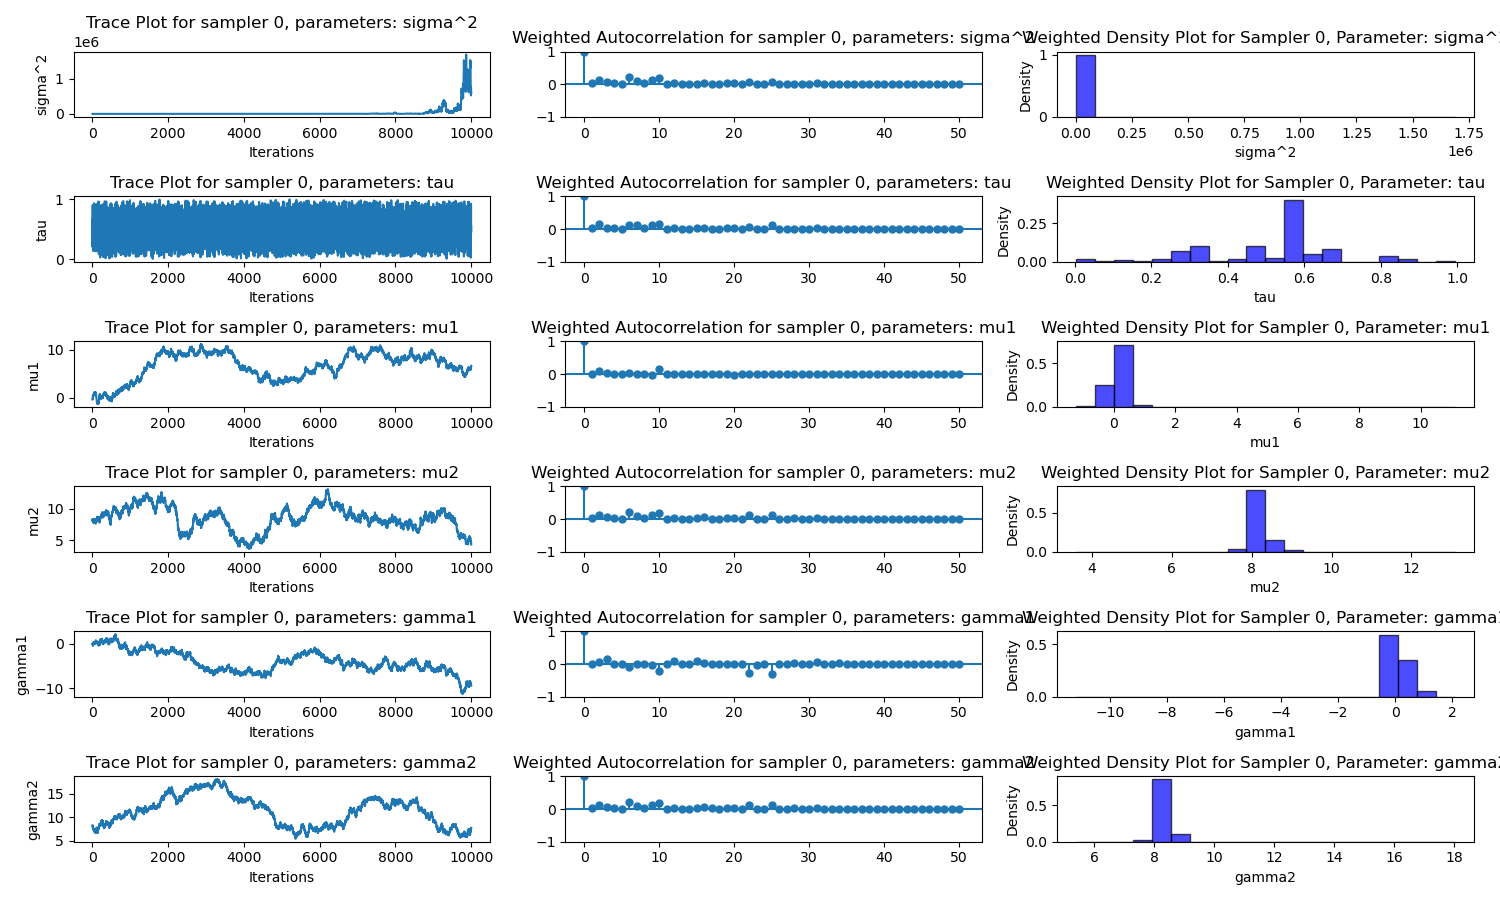
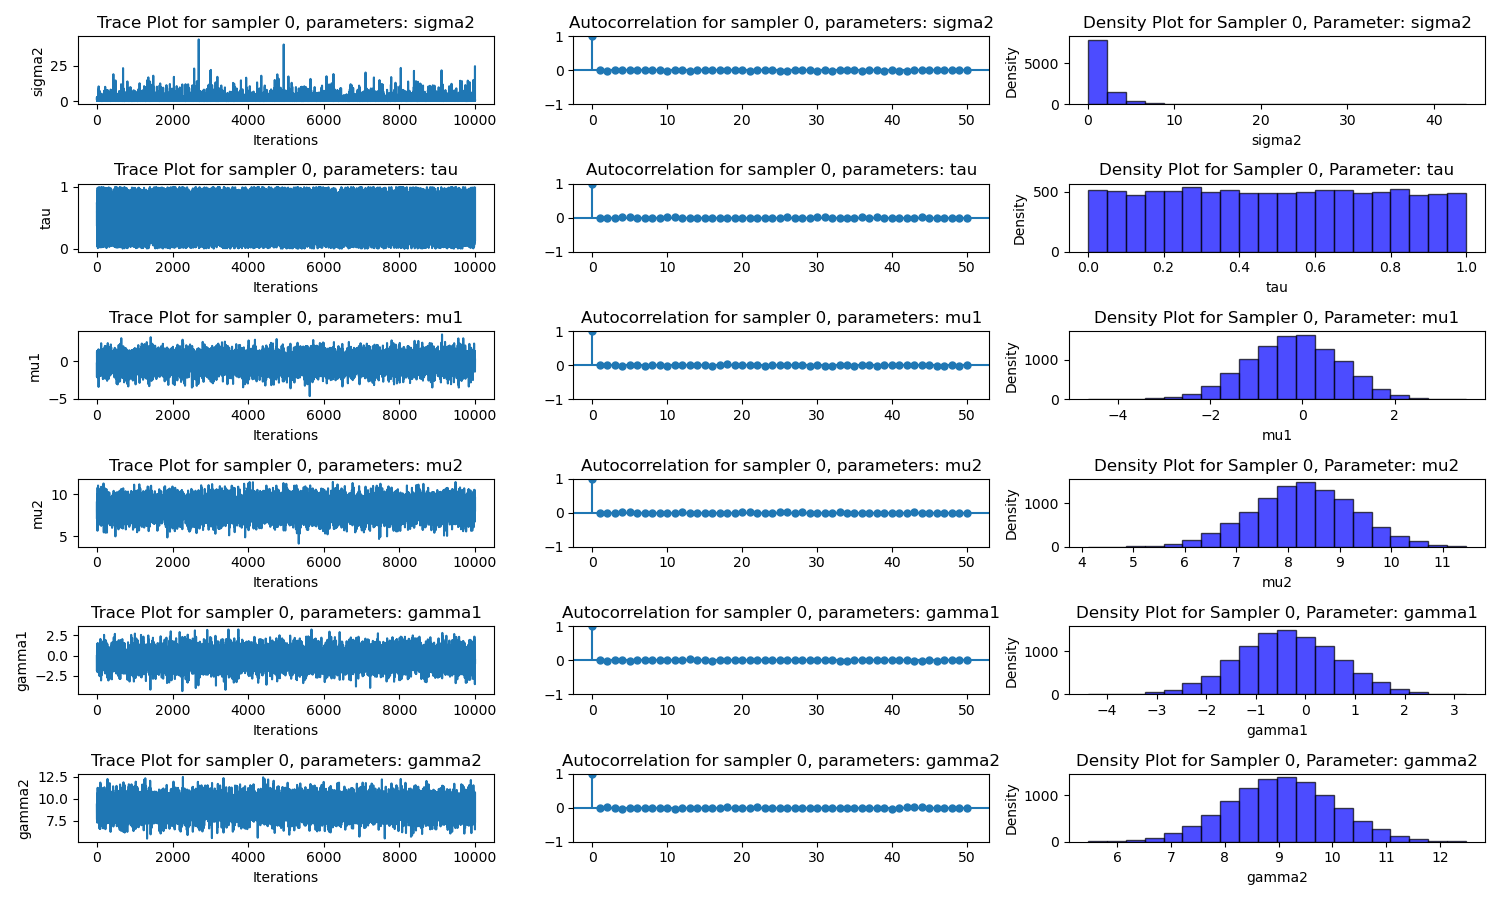
updates

diff --git a/importance_sampling.py b/importance_sampling.py
@@ -7,11 +7,11 @@ import matplotlib.pyplot as plt
 from statsmodels.graphics.tsaplots import plot_acf
 import seaborn as sns
 import os
-from scipy.stats import norm, uniform, lognorm
+from scipy.stats import norm, uniform, lognorm, beta
 
 
 
-# Define prior functions
+# PRIOR DISTRIBUTIONS
 def prior_sigma2(sigma2):
     if 0.1 <= sigma2 <= 10:
         return -np.log(sigma2)
@@ -25,7 +25,8 @@ def prior_tau(tau):
 def prior_mu_gamma(value):
     return 0
 
-# Likelihood function
+
+# LIKELIHOOD FUNCTION
 def likelihood(theta, data):
     sigma2, tau, mu1, mu2, gamma1, gamma2 = theta
     log_likelihood = 0
@@ -44,25 +45,25 @@ def likelihood(theta, data):
 
 # Proposal distribution functions
 def propose_log_normal():
-    return lognorm(s=1).rvs()
+    x = lognorm(s=1).rvs()
+    return x, lognorm(s=1).pdf(x)
 
 def propose_uniform(lower=0, upper=1):
-    return uniform(lower, upper-lower).rvs()
+    x = uniform(lower, upper-lower).rvs()
+    return x, uniform(lower, upper-lower).pdf(x)
 
 def propose_normal(mean=0, sd=1):
-    return norm(mean, sd).rvs()
+    x = norm(mean, sd).rvs()
+    return x, norm(mean, sd).pdf(x)
+
+def propose_beta(alpha=1, beta=1):
+    x = beta(alpha, beta).rvs()
+    return x, beta(alpha, beta).pdf(x)
+
 
 
 # PLOTTING DIAGNOSTICS
 def plot_diagnostics(sampler_num, samples, parameter_indices, parameter_names):
-    """
-    Plots diagnostics for selected parameters in the Metropolis-Hastings samples.
-
-    Args:
-    samples (numpy.ndarray): The array of samples.
-    parameter_indices (list): List of indices for the parameters to be diagnosed.
-    parameter_names (list): List of names for the parameters.
-    """
     num_params = len(parameter_indices)
     fig, axes = plt.subplots(num_params, 3, figsize=(15, 1.5*num_params))
 
@@ -87,14 +88,15 @@ def plot_diagnostics(sampler_num, samples, parameter_indices, parameter_names):
         ax3.set_ylabel('Density')
 
     fig.tight_layout() 
-    if not os.path.exists("plots/metropolis_hastings"):
-        os.makedirs("plots/metropolis_hastings")
-    plt.savefig(f"plots/metropolis_hastings/diagnostics_sampler_{sampler_num}.png")
+    if not os.path.exists("plots/importance_sampling"):
+        os.makedirs("plots/importance_sampling")
+    plt.savefig(f"plots/importance_sampling/diagnostics_sampler_{sampler_num}.png")
 
-# Importance sampling function
+
+
+# SAMPLER
 def importance_sampling(n_samples, proposal_funcs, prior_funcs, likelihood_func, data):
-    # Set seed for reproducibility
-    np.random.seed(42)
+    np.random.seed(42)  # Set seed for reproducibility
     samples = np.zeros((n_samples, len(proposal_funcs)))
     weights = np.zeros(n_samples)
     
@@ -102,14 +104,15 @@ def importance_sampling(n_samples, proposal_funcs, prior_funcs, likelihood_func,
         if i % 1000 == 0:
             print(f"Generated {i} samples")
         
-        sample = np.array([proposal_funcs[k]() for k in range(len(proposal_funcs))])
-        log_prior = np.sum([prior_funcs[k](sample[k]) for k in range(len(sample))])
-        log_likelihood = likelihood_func(sample, data)
-        log_proposal = np.sum([np.log(proposal_funcs[k](sample[k])) for k in range(len(sample))])
+        proposed = [proposal_funcs[k]() for k in range(len(proposal_funcs))]
+        curr_samples, densities = zip(*proposed)
+        curr_samples, densities = np.array(curr_samples), np.array(densities)
+        log_prior = np.sum([prior_funcs[k](curr_samples[k]) for k in range(len(curr_samples))])
+        log_likelihood = likelihood_func(curr_samples, data)
         
-        log_weight = log_prior + log_likelihood - log_proposal
-        samples[j, :] = sample
-        weights[j] = np.exp(log_weight)
+        log_weight = log_prior + log_likelihood - np.sum(np.log(densities))
+        samples[i, :] = curr_samples
+        weights[i] = np.exp(log_weight)
     
     weights /= np.sum(weights)
     
@@ -145,19 +148,16 @@ proposal_combinations = [
     [lambda: propose_normal(initial_theta[0], 1), lambda: propose_uniform(0, 1), lambda: propose_normal(initial_theta[2], 1), lambda: propose_normal(initial_theta[3], 1), lambda: propose_normal(initial_theta[4], 1), lambda: propose_normal(initial_theta[5], 1)],
     [propose_log_normal, lambda: propose_uniform(0, 1), lambda: propose_normal(initial_theta[2], 2), lambda: propose_normal(initial_theta[3], 2), lambda: propose_normal(initial_theta[4], 2), lambda: propose_normal(initial_theta[5], 2)],
     [lambda: propose_normal(initial_theta[0], 1), lambda: propose_uniform(0, 1), lambda: propose_normal(initial_theta[2], 2), lambda: propose_normal(initial_theta[3], 2), lambda: propose_normal(initial_theta[4], 2), lambda: propose_normal(initial_theta[5], 2)],
-    [propose_log_normal, lambda: propose_uniform(0, 1), lambda: propose_uniform(initial_theta[2]-0.5*initial_theta[2], initial_theta[2]+0.5*initial_theta[2]), lambda: propose_uniform(initial_theta[3]-0.5*initial_theta[3], initial_theta[3]+0.5*initial_theta[3]), lambda: propose_uniform(initial_theta[4]-0.5*initial_theta[4], initial_theta[4]+0.5*initial_theta[4]), lambda: propose_uniform(initial_theta[5]-0.5*initial_theta[5], initial_theta[5]+0.5*initial_theta[5])],
-    [lambda: propose_normal(initial_theta[0], 1), lambda: propose_uniform(0, 1), lambda: propose_uniform(initial_theta[2]-0.5*initial_theta[2], initial_theta[2]+0.5*initial_theta[2]), lambda: propose_uniform(initial_theta[3]-0.5*initial_theta[3], initial_theta[3]+0.5*initial_theta[3]), lambda: propose_uniform(initial_theta[4]-0.5*initial_theta[4], initial_theta[4]+0.5*initial_theta[4]), lambda: propose_uniform(initial_theta[5]-0.5*initial_theta[5], initial_theta[5]+0.5*initial_theta[5])]
+    [propose_log_normal, lambda: propose_beta, lambda: propose_normal(initial_theta[2], 1), lambda: propose_normal(initial_theta[3], 1), lambda: propose_normal(initial_theta[4], 1), lambda: propose_normal(initial_theta[5], 1)],
+    [lambda: propose_normal(initial_theta[0], 1), lambda: propose_beta, lambda: propose_normal(initial_theta[2], 1), lambda: propose_normal(initial_theta[3], 1), lambda: propose_normal(initial_theta[4], 1), lambda: propose_normal(initial_theta[5], 1)],
+    [propose_log_normal, lambda: propose_beta, lambda: propose_normal(initial_theta[2], 2), lambda: propose_normal(initial_theta[3], 2), lambda: propose_normal(initial_theta[4], 2), lambda: propose_normal(initial_theta[5], 2)],
+    [lambda: propose_normal(initial_theta[0], 1), lambda: propose_beta, lambda: propose_normal(initial_theta[2], 2), lambda: propose_normal(initial_theta[3], 2), lambda: propose_normal(initial_theta[4], 2), lambda: propose_normal(initial_theta[5], 2)],
 ]
 
 
 results = []
 for num, proposal_funcs in enumerate(proposal_combinations):
     print(f"Running sampler {num}")
-    results.append(importance_sampling(10000, proposal_funcs, prior_funcs, likelihood, data))
-
-for i, (samples, weights) in enumerate(results):
-    np.set_printoptions(threshold=np.inf, linewidth=np.inf, suppress=True)
-    for j in range(-10, 0):
-        print(f"Sampler {i}, Sample {j}: {samples[j]} with weight {weights[j]}")
-    # Save or plot diagnostics as needed
-    plot_diagnostics(i, samples, [0, 1, 2, 3, 4, 5], ['sigma2', 'tau', 'mu1', 'mu2', 'gamma1', 'gamma2'])
+    samples, weights = importance_sampling(10000, proposal_funcs, prior_funcs, likelihood, data)
+    results.append((samples, weights))
+    plot_diagnostics(num, samples, [0, 1, 2, 3, 4, 5], ['sigma2', 'tau', 'mu1', 'mu2', 'gamma1', 'gamma2'])

diff --git a/metropolis_hastings.py b/metropolis_hastings.py
@@ -8,16 +8,9 @@ import seaborn as sns
 import os
 
 
+
 # PLOTTING DIAGNOSTICS
 def plot_diagnostics(sampler_num, samples, parameter_indices, parameter_names):
-    """
-    Plots diagnostics for selected parameters in the Metropolis-Hastings samples.
-
-    Args:
-    samples (numpy.ndarray): The array of samples.
-    parameter_indices (list): List of indices for the parameters to be diagnosed.
-    parameter_names (list): List of names for the parameters.
-    """
     num_params = len(parameter_indices)
     fig, axes = plt.subplots(num_params, 3, figsize=(15, 1.5*num_params))
 
@@ -47,6 +40,7 @@ def plot_diagnostics(sampler_num, samples, parameter_indices, parameter_names):
     plt.savefig(f"plots/metropolis_hastings/diagnostics_sampler_{sampler_num}.png")
 
 
+
 # PROPOSAL DISTRIBUTIONS
 def propose_log_normal(current, proposal_sd=0.1):
     return np.exp(np.random.normal(np.log(current), proposal_sd))
@@ -60,9 +54,8 @@ def propose_normal(current, proposal_sd=0.1):
     return np.random.normal(current, proposal_sd)
 
 
-def propose_beta(current, a=2, b=2):
+def propose_beta(current, a=2, b=1):
     return np.random.beta(a, b) * (1 - 0) + 0
-
 
 def propose_uniform(current, lower=0, upper=1):
     return np.random.uniform(lower, upper)
@@ -74,14 +67,11 @@ def propose_uniform_mu_gamma(current):
         lower, upper = upper, lower
     return np.random.uniform(lower, upper)
 
-
 def propose_inverse_gamma(current, alpha=2, beta=2):
     return 1 / np.random.gamma(alpha, scale=1/beta)
 
-
 def propose_t_distribution(current, df=2, scale=0.1):
     return current + np.random.standard_t(df) * scale
-
 
 def propose_reflective_normal(current, proposal_sd=0.1, lower=None, upper=None):
     proposal = np.random.normal(current, proposal_sd)
@@ -91,13 +81,11 @@ def propose_reflective_normal(current, proposal_sd=0.1, lower=None, upper=None):
         proposal = upper - (proposal - upper)
     return proposal
 
-
 def propose_logistic_normal(current, proposal_sd=0.1):
     from scipy.special import expit, logit
     logit_current = logit(current)
     proposal = np.random.normal(logit_current, proposal_sd)
     return expit(proposal)
-
 
 def propose_exponential(current, scale=1.0):
 
@@ -105,7 +93,6 @@ def propose_exponential(current, scale=1.0):
     proposal += current - scale 
 
     return proposal
-
 
 
 
@@ -122,6 +109,7 @@ def prior_tau(tau):
 
 def prior_mu_gamma(value):
     return 0 
+
 
 
 # LIKELIHOOD FUNCTION
@@ -145,7 +133,7 @@ def likelihood(theta, data):
 
 # SAMPLER
 def metropolis_hastings(n_samples, initial_theta, proposal_funcs, prior_funcs, likelihood_func, data):
-    np.random.seed(42) # set seed for reproducibility
+    np.random.seed(42)  # Set seed for reproducibility
     samples = np.zeros((n_samples, len(initial_theta)))
     samples[0, :] = initial_theta
     current_theta = initial_theta
@@ -210,7 +198,7 @@ proposal_combinations = [
 
 
 
-# Run sampler and save diagnostics
+# Run sampler, save diagnostics
 for i, proposal_funcs in enumerate(proposal_combinations):
     print(f"Running sampler {i}")
     samples = metropolis_hastings(10000, initial_theta, proposal_funcs, prior_funcs, likelihood, data)
